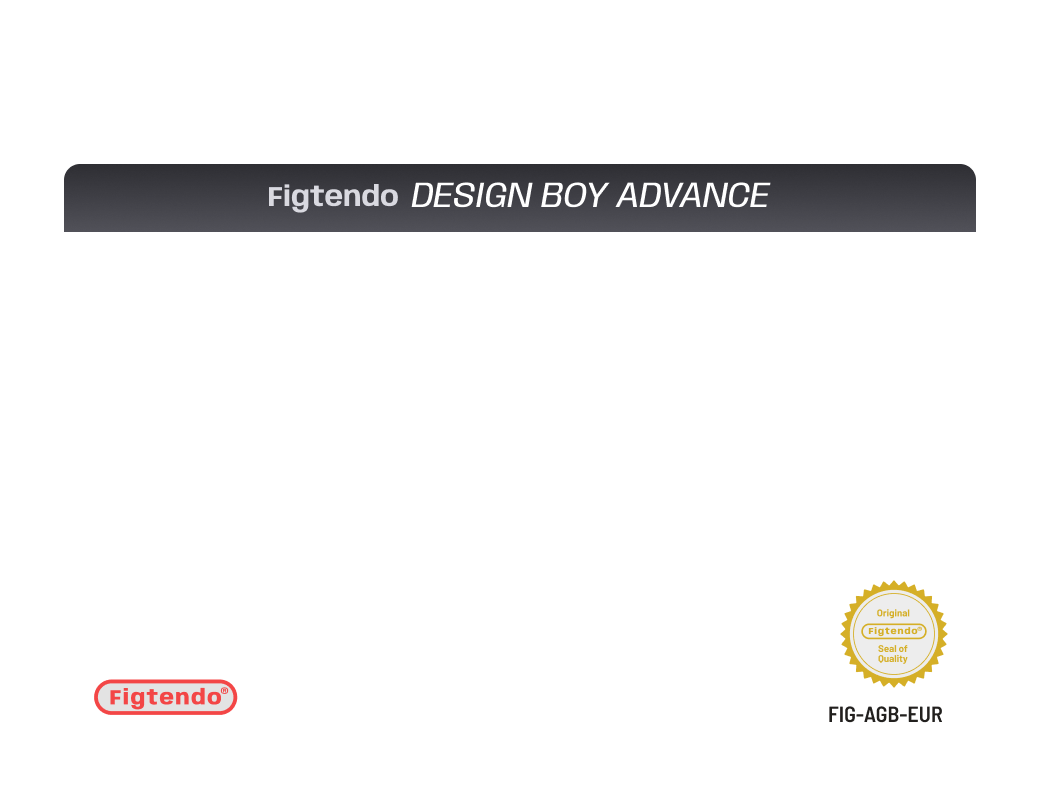
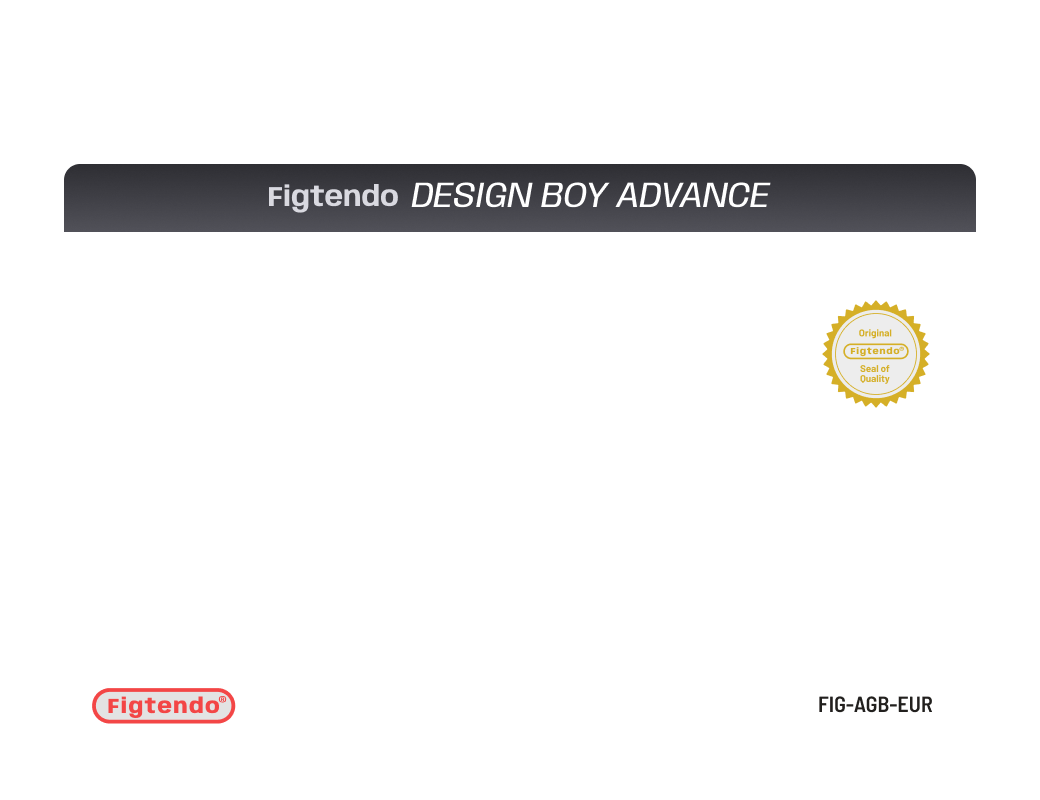
Encaixar as artes de N64 e GBA e corrigir capas e saves
- Etiquetas de N64 e GBA na proporção da caixa do jogo, com a arte
  inteira e faixas na cor da capa
- Nomes com numeração de coleção, como "0997 - Castlevania", encontram
  a capa
- Sair do jogo não trava quando o core ainda não tem save state
- A pausa da música não é mais lembrada entre visitas

Changed region(s): [[0.7692, 0.7188, 0.9231, 0.9062], [0.7692, 0.375, 0.8923, 0.5312], [0.0923, 0.8438, 0.2462, 0.9062]]

diff --git a/src/config/consoles.ts b/src/config/consoles.ts
@@ -103,10 +103,11 @@ export const consoles: ConsoleConfig[] = [
     overlay: "/cartridges/n64-overlay.png",
     width: 932,
     height: 637,
-    cover: { x: 213, y: 54, width: 506, height: 527 },
+    // A arte ocupa o topo da etiqueta na proporção da caixa (deitada); embaixo, faixa na cor da capa.
+    cover: { x: 213, y: 54, width: 506, height: 354 },
     // A etiqueta do N64 tem o topo em arco, não cantos arredondados.
-    coverClip:
-      "polygon(0 4%, 15% 1.7%, 30% 0.5%, 50% 0, 70% 0.5%, 85% 1.7%, 100% 4%, 100% 100%, 0 100%)",
+    coverClip: "polygon(0 6%, 15% 2.5%, 30% 0.75%, 50% 0, 70% 0.75%, 85% 2.5%, 100% 6%, 100% 100%, 0 100%)",
+    labelStrips: [{ x: 213, y: 408, width: 506, height: 173, radius: "0 0 10px 10px" }],
     gloss: true,
   },
   {
@@ -120,9 +121,12 @@ export const consoles: ConsoleConfig[] = [
     overlay: "/cartridges/gba-overlay.png",
     width: 520,
     height: 400,
-    // Abaixo da faixa DESIGN BOY ADVANCE; capas de GBA são quadradas e trazem o título no topo.
-    cover: { x: 32, y: 116, width: 456, height: 256 },
-    coverPosition: "top",
+    // Abaixo da faixa DESIGN BOY ADVANCE: arte quadrada no meio, como a caixa, entre colunas na cor da capa.
+    cover: { x: 132, y: 116, width: 256, height: 256 },
+    labelStrips: [
+      { x: 32, y: 116, width: 100, height: 256, radius: "0 0 0 8px" },
+      { x: 388, y: 116, width: 100, height: 256, radius: "0 0 8px 0" },
+    ],
     gloss: true,
   },
   {

diff --git a/src/components/miniplayer/Miniplayer.tsx b/src/components/miniplayer/Miniplayer.tsx
@@ -4,22 +4,6 @@ import { useEffect, useRef, useState } from "react";
 import { playlist } from "@/lib/playlist";
 import { useSettings } from "@/lib/settings/store";
 
-const PAUSED_KEY = "arcadelink:music-paused";
-
-function readPaused() {
-  try {
-    return localStorage.getItem(PAUSED_KEY) === "1";
-  } catch {
-    return false;
-  }
-}
-
-function writePaused(paused: boolean) {
-  try {
-    localStorage.setItem(PAUSED_KEY, paused ? "1" : "0");
-  } catch {}
-}
-
 export function Miniplayer() {
   const root = useRef<HTMLDivElement>(null);
   const audio = useRef<HTMLAudioElement>(null);
@@ -39,7 +23,7 @@ export function Miniplayer() {
     function start(event: Event) {
       window.removeEventListener("pointerdown", start);
       window.removeEventListener("keydown", start);
-      if (root.current?.contains(event.target as Node) || readPaused()) return;
+      if (root.current?.contains(event.target as Node)) return;
       audio.current?.play().catch(() => {});
     }
     window.addEventListener("pointerdown", start);
@@ -57,7 +41,6 @@ export function Miniplayer() {
   function togglePlay() {
     const element = audio.current;
     if (!element) return;
-    writePaused(!element.paused);
     if (element.paused) element.play().catch(() => {});
     else element.pause();
   }

diff --git a/src/components/player/Player.tsx b/src/components/player/Player.tsx
@@ -51,7 +51,14 @@ function saveNow(emulator: Emulator, saves: ReturnType<typeof createSaveQueue>, 
   const { gameManager } = emulator;
   const battery = gameManager.getSaveFile();
   if (battery) saves.battery(battery);
-  if (withState && gameManager.supportsStates()) saves.state(gameManager.getState());
+  if (!withState || !gameManager.supportsStates()) return;
+  try {
+    saves.state(gameManager.getState());
+  } catch (error) {
+    // O core lança "Size is zero" enquanto ainda não tem estado, como logo após abrir o jogo.
+    // Sem state, o save de bateria segue e a saída não pode travar por isso.
+    console.warn("Save state indisponível agora:", error);
+  }
 }
 
 export function Player({ romId }: { romId: string }) {

diff --git a/src/lib/library/roms.test.ts b/src/lib/library/roms.test.ts
@@ -10,6 +10,8 @@ test("romTitle limpa os nomes reais da biblioteca", () => {
     "The Legend of Zelda - A Link to the Past",
   );
   assert.equal(romTitle("super_metroid.smc"), "super metroid");
+  assert.equal(romTitle("0997 - Castlevania - Aria of Sorrow (E)(Eurasia).gba"), "Castlevania - Aria of Sorrow");
+  assert.equal(romTitle("1943 - The Battle of Midway (USA).nes"), "1943 - The Battle of Midway");
   assert.equal(romTitle("kf2k2mp2.zip"), "The King of Fighters 2002 Magic Plus II");
   assert.equal(coverTitle("kf2k2mp2.zip"), "The King of Fighters 2002");
   assert.equal(coverTitle("Sonic (USA).md"), romTitle("Sonic (USA).md"));

diff --git a/src/lib/library/roms.ts b/src/lib/library/roms.ts
@@ -19,6 +19,8 @@ function extension(name: string) {
 function withoutTags(name: string) {
   return name
     .replace(/\.[a-z0-9]{1,4}$/i, "")
+    // Numeração de coleções, como "0997 - Castlevania". Anos ficam, por causa de "1943 - The Battle of Midway".
+    .replace(/^(?!19\d\d|20\d\d)\d{3,4}\s*-\s*/, "")
     .replace(/_/g, " ")
     .replace(/\([^)]*\)|\[[^\]]*\]/g, " ")
     .replace(/\s+/g, " ")
